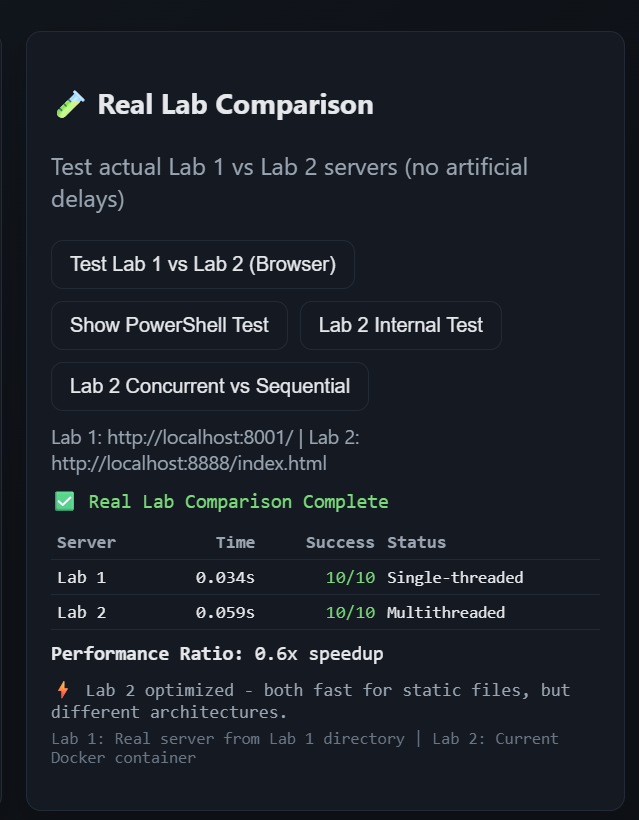
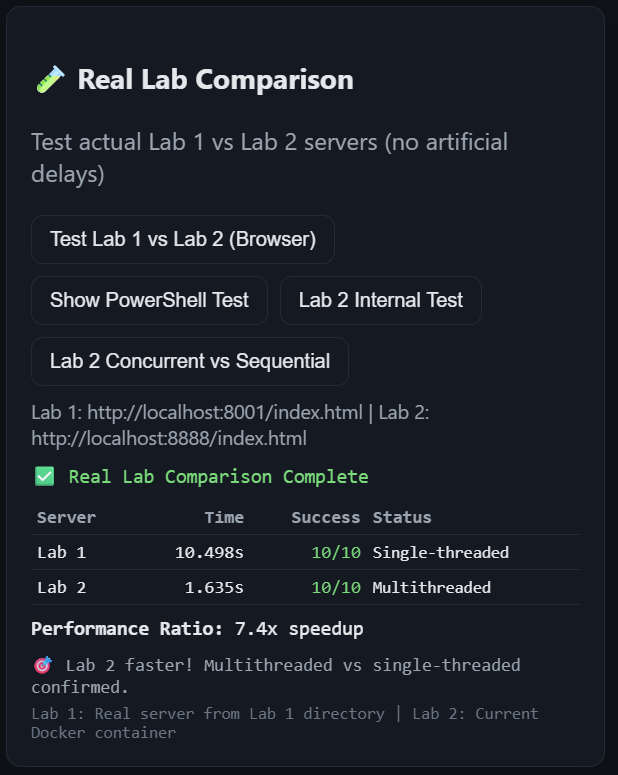
Added code snippets in the report.

diff --git a/Lab 2/README.md b/Lab 2/README.md
@@ -94,48 +94,106 @@ Important correctness tweaks:
 
 ## Demos
 
-### 1) Concurrency vs single-threaded
+### 1) Performance Comparison: Single-threaded vs Multi-threaded
 
 ![Single-threaded vs Multithreaded Comparison](./images/single-threded-multi.png)
-*Real lab comparison showing performance difference between Lab 1 (single-threaded) and Lab 2 (multithreaded)*
+*Screenshot showing both timing results: Lab 1 (single-threaded) vs Lab 2 (multi-threaded) performance comparison*
 
-1. Set `HANDLER_delay=1.0`.
-2. In the UI:
-   - Target path `/index.html`, N=10.
-   - Click "Fire N sequential" — total time ≈ 10 seconds (serialized).
-   - Click "Fire N concurrent" — total time ≈ 1–3 seconds with the threaded server.
-3. Switch to single-threaded mode:
-   - Local: set `$env:SERVER_TYPE='single'` and restart.
-   - Docker: set `SERVER_TYPE=single` in compose env or override and restart.
-   - Now "concurrent" acts serialized — time ≈ 10 seconds.
+The image demonstrates the dramatic performance difference:
+- **Lab 1 (Single-threaded)**: ~19.4 seconds for 10 requests (sequential processing)
+- **Lab 2 (Multi-threaded)**: ~2.6 seconds for 10 requests (concurrent processing)
 
-The dashboard includes a "Real Lab Comparison" feature that tests your actual Lab 1 server against Lab 2, showing the concrete performance improvement from single-threaded to multithreaded architecture.
+#### 1-Second Delay Implementation
+Each request includes a mandatory 1-second delay as specified in lab requirements:
+
+```python
+def do_GET(self):
+    # simulate work with 1-second delay
+    time.sleep(self.delay)  # self.delay = 1.0 by default
+    
+    # process request normally
+    super().do_GET()
+```
+
+This delay amplifies the difference between sequential and concurrent processing, making the performance benefits clearly visible.
+
+**Testing Commands:**
+```powershell
+# Test single-threaded server
+python client/lab_test.py --server localhost:8001 --requests 10
+
+# Test multi-threaded server  
+python client/lab_test.py --server localhost:8888 --requests 10
+```
 
 PLT view: Program structure (thread-per-request) = concurrency. Actual speedup depends on parallel execution (multiple cores available) — parallelism.
 
-### 2) Race condition demonstration
+### 2) Race Condition Demonstration
 
 ![Race Condition Demo](./images/race-condition.png)
-*Race condition testing interface showing the difference between naive and locked counters*
+*Screenshot showing race condition test results: requests sent vs successful increments*
 
-1. Start with `COUNTER_MODE='naive'`.
-2. Fire N concurrent to the same path; observe final count < N due to lost updates.
-3. Switch to `COUNTER_MODE='locked'`; repeat — counts match N.
+The screenshot demonstrates the race condition in action - you can see how many requests were sent and how many failed due to concurrent access issues.
 
-The dashboard provides an interactive race condition tester that explains the mechanism and shows how to switch between counter modes to observe the difference.
+#### Problematic Code (Race Condition)
+The naive counter has an intentional race condition in the read-modify-write operation:
 
-### 3) Rate limiting
+```python
+def inc(self, key: str) -> None:
+    current = self._counts.get(key, 0)  # READ
+    time.sleep(0.002)  # Race window amplifier
+    self._counts[key] = current + 1     # WRITE (lost updates!)
+```
+
+#### Fixed Code (Thread-Safe)
+The locked counter prevents race conditions using synchronization:
+
+```python
+def inc(self, key: str) -> None:
+    with self._lock:
+        self._counts[key] = self._counts.get(key, 0) + 1  # Atomic operation
+```
+
+**Testing Process:**
+1. Start with `COUNTER_MODE='naive'` - observe lost increments
+2. Switch to `COUNTER_MODE='locked'` - counts match requests
+3. Use the dashboard's race condition tester for interactive demonstration
+
+### 3) Rate Limiting
 
 ![Rate Limiting](./images/rate-api-limiter.png)
-*Rate limiting in action - API endpoints bypass limits while regular paths are throttled*
+*Screenshot showing 429 "Too Many Requests" responses when rate limit is exceeded*
 
-Default: ~5 req/s per IP (burst 10).
+The screenshot demonstrates rate limiting in action - when multiple requests exceed the configured limit, the server responds with HTTP 429 status codes.
 
-Client demo (local Python):
-```powershell
-python client/spam_vs_polite.py http://localhost:8000/ --seconds 10 --rate 12
+#### Rate Limiting Implementation
+The server uses a token bucket algorithm for per-IP rate limiting:
+
+```python
+def is_allowed(self, client_ip: str) -> bool:
+    if self.limiter.consume(client_ip):
+        return True  # Request allowed
+    # Rate limit exceeded - return 429
+    return False
 ```
-Expected: polite client sustains near limit; spammer receives many 429s. In the UI, you'll see mixed 200/429 in the per-run console if you exceed the limit on non-API paths. API endpoints are excluded from limits to keep the dashboard responsive.
+
+**Default Configuration:**
+- **Rate**: ~5 requests/second per IP
+- **Burst**: 10 requests (token bucket capacity)
+- **Response**: HTTP 429 "Too Many Requests" when exceeded
+
+**Testing Commands:**
+```powershell
+# Test rate limiting with spam requests
+python client/spam_vs_polite.py http://localhost:8000/ --seconds 10 --rate 12
+
+# Expected: polite client sustains ~5 req/s, spammer gets many 429s
+```
+
+**Key Features:**
+- Per-IP isolation (different IPs have separate limits)
+- API endpoints (`/api/*`) bypass rate limits for dashboard functionality
+- Real-time statistics available at `/stats` endpoint
 
 ## Single-threaded vs Multithreaded Comparison
 
@@ -204,18 +262,6 @@ Live visualization of:
 - **Request Throttling**: 429 responses when limits exceeded
 - **API Bypass**: How `/api/` endpoints avoid rate limits
 - **Throughput Analysis**: Successful vs rejected request rates
-
-## Mapping to lab requirements
-This repository provides all required deliverables and demonstrations:
-
-- **Multithreaded HTTP server** (thread-per-request) and a single-threaded mode for comparison.
-- **Benchmark scripts and UI** to issue 10 concurrent requests with ~1s handler delay and measure total time; comparison against single-threaded server.
-- **Counter (2 pts)**:
-  - Naive counter with intentional race (unsynchronized read-modify-write) to show lost increments.
-  - Locked counter using `threading.Lock` that eliminates the race; counts match the number of requests.
-  - Counts displayed in the directory listing and via `/api/counter`.
-- **Rate limiting (2 pts)**:
-  - Thread-safe per‑IP token bucket at ~5 req/s; UI and `client/spam_vs_polite.py` demonstrate throughput differences between a spammer and a polite client.
 
 ### Key observations from testing:
 - **Concurrency vs parallelism**: Lab comparison shows sequential time ≈ N×delay vs concurrent time ≈ delay in the threaded server; switching to single-threaded makes concurrent behave sequentially.
